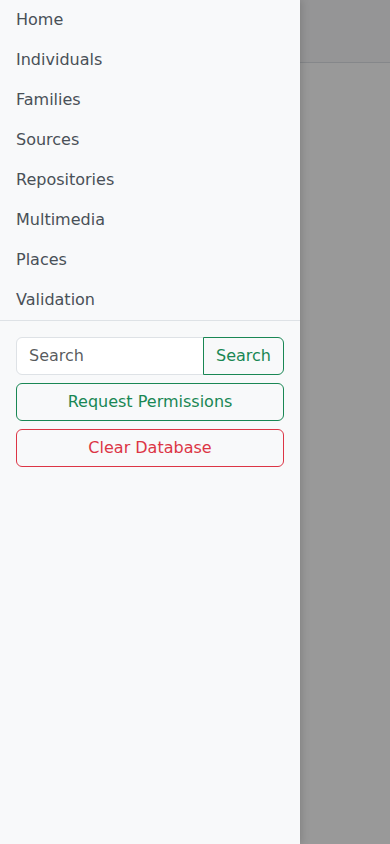
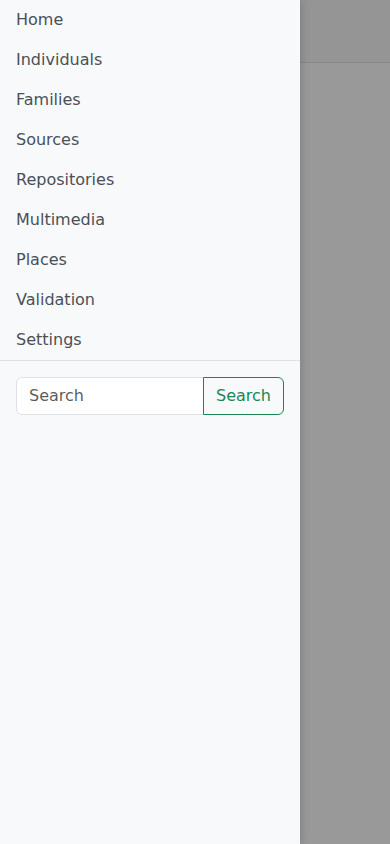
Add settings link to nav, drop redundant header actions
The left nav now links to /settings. Since that page already covers
requesting permissions and clearing the database, drop those two
actions from the header and the mobile nav-actions panel (the search
box stays), along with the now-unused AncestryService injection in
AppComponent.

Claude-Session: https://claude.ai/code/session_01Mqia6BNoeNsYpT7TtsFhJS

Changed region(s): [[0.0308, 0.3697, 0.7385, 0.5545], [0.7077, 0.4929, 0.7385, 0.5545], [0.0308, 0.4929, 0.0615, 0.5545]]

diff --git a/src/app/app.component.html b/src/app/app.component.html
@@ -12,19 +12,6 @@
   </a>
   <div style="flex: 1"></div>
   <div class="d-none d-md-flex align-items-center gap-2">
-    <input
-      type="button"
-      (click)="requestPermissions()"
-      class="btn btn-outline-success"
-      value="Request Permissions"
-    />
-    <input
-      id="clearDatabaseButton"
-      type="button"
-      class="btn btn-outline-danger"
-      (click)="clearDatabase()"
-      value="Clear Database"
-    />
     <div class="input-group w-auto">
       <input class="form-control" type="search" placeholder="Search" />
       <button class="btn btn-outline-success" type="submit">Search</button>
@@ -50,24 +37,13 @@
   <a routerLink="/multimedias" (click)="closeSidebar()">Multimedia</a>
   <a routerLink="/places" (click)="closeSidebar()">Places</a>
   <a routerLink="/validation" (click)="closeSidebar()">Validation</a>
+  <a routerLink="/settings" (click)="closeSidebar()">Settings</a>
 
   <div class="nav-actions d-md-none">
     <div class="input-group">
       <input class="form-control" type="search" placeholder="Search" />
       <button class="btn btn-outline-success" type="submit">Search</button>
     </div>
-    <input
-      type="button"
-      (click)="requestPermissions()"
-      class="btn btn-outline-success"
-      value="Request Permissions"
-    />
-    <input
-      type="button"
-      class="btn btn-outline-danger"
-      (click)="clearDatabase()"
-      value="Clear Database"
-    />
   </div>
 </nav>
 

diff --git a/src/app/app.component.ts b/src/app/app.component.ts
@@ -1,6 +1,5 @@
-import { Component, inject, signal } from "@angular/core";
+import { Component, signal } from "@angular/core";
 import { RouterLink, RouterOutlet } from "@angular/router";
-import { AncestryService } from "../database/ancestry.service";
 
 @Component({
   selector: "app-root",
@@ -9,8 +8,6 @@ import { AncestryService } from "../database/ancestry.service";
   styleUrl: "./app.component.css",
 })
 export class AppComponent {
-  private readonly ancestryService = inject(AncestryService);
-
   readonly sidebarOpen = signal(false);
 
   toggleSidebar() {
@@ -19,22 +16,5 @@ export class AppComponent {
 
   closeSidebar() {
     this.sidebarOpen.set(false);
-  }
-
-  async requestPermissions() {
-    try {
-      await this.ancestryService.requestPermissions();
-    } catch (err) {
-      console.error(err);
-    }
-  }
-
-  async clearDatabase() {
-    try {
-      await this.ancestryService.clearDatabase();
-      window.location.reload();
-    } catch (err) {
-      console.error(err);
-    }
   }
 }

diff --git a/src/app/app.component.spec.ts b/src/app/app.component.spec.ts
@@ -1,9 +1,8 @@
 import type { ComponentFixture } from "@angular/core/testing";
 import { provideRouter } from "@angular/router";
 import { render } from "@testing-library/angular/zoneless";
-import { beforeEach, describe, expect, it, vi } from "vitest";
+import { beforeEach, describe, expect, it } from "vitest";
 import { page } from "vitest/browser";
-import { AncestryService } from "../database/ancestry.service";
 import { AppComponent } from "./app.component";
 
 describe("AppComponent", () => {
@@ -12,16 +11,8 @@ describe("AppComponent", () => {
   let element: HTMLElement;
 
   beforeEach(async () => {
-    const spy = {
-      requestPermissions: vi.fn(),
-      clearDatabase: vi.fn(),
-    };
-
     const renderResult = await render(AppComponent, {
-      providers: [
-        { provide: AncestryService, useValue: spy },
-        provideRouter([]),
-      ],
+      providers: [provideRouter([])],
       waitForStableOnRender: true,
     });
 
